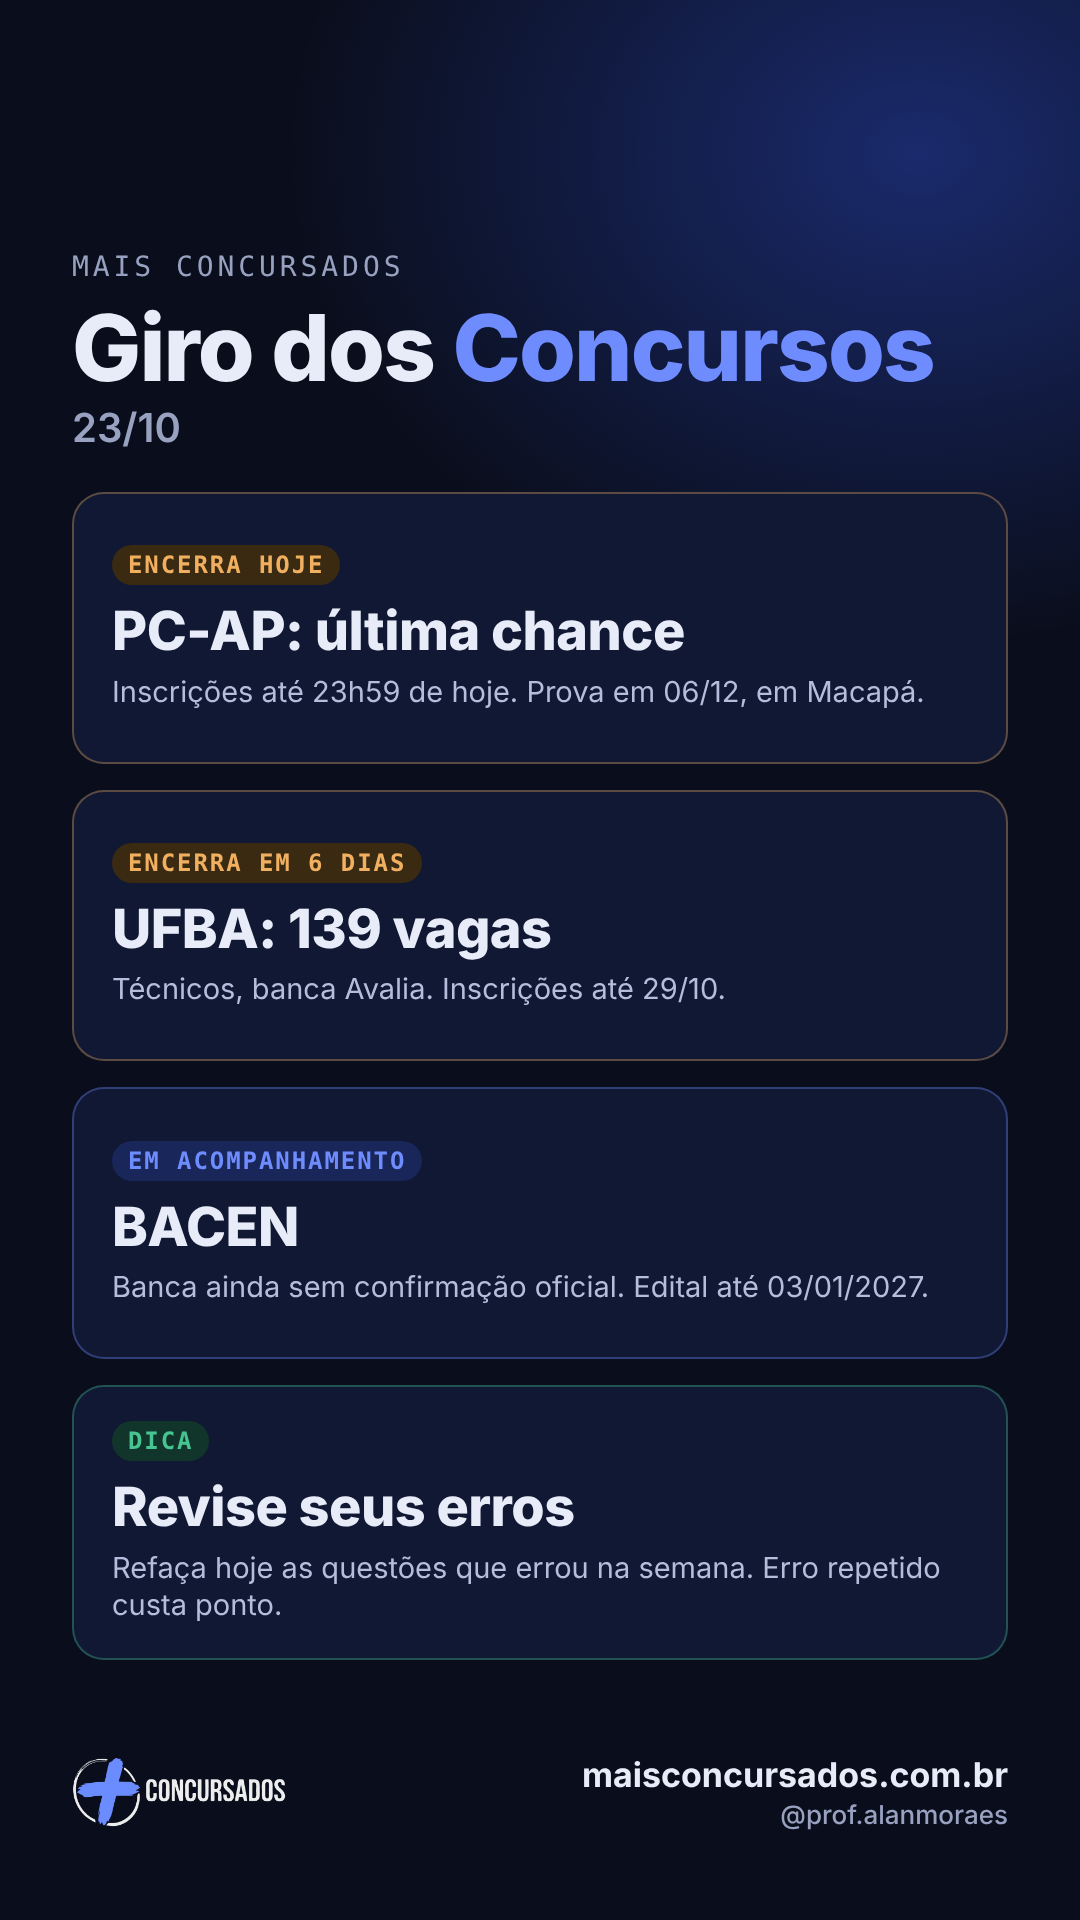
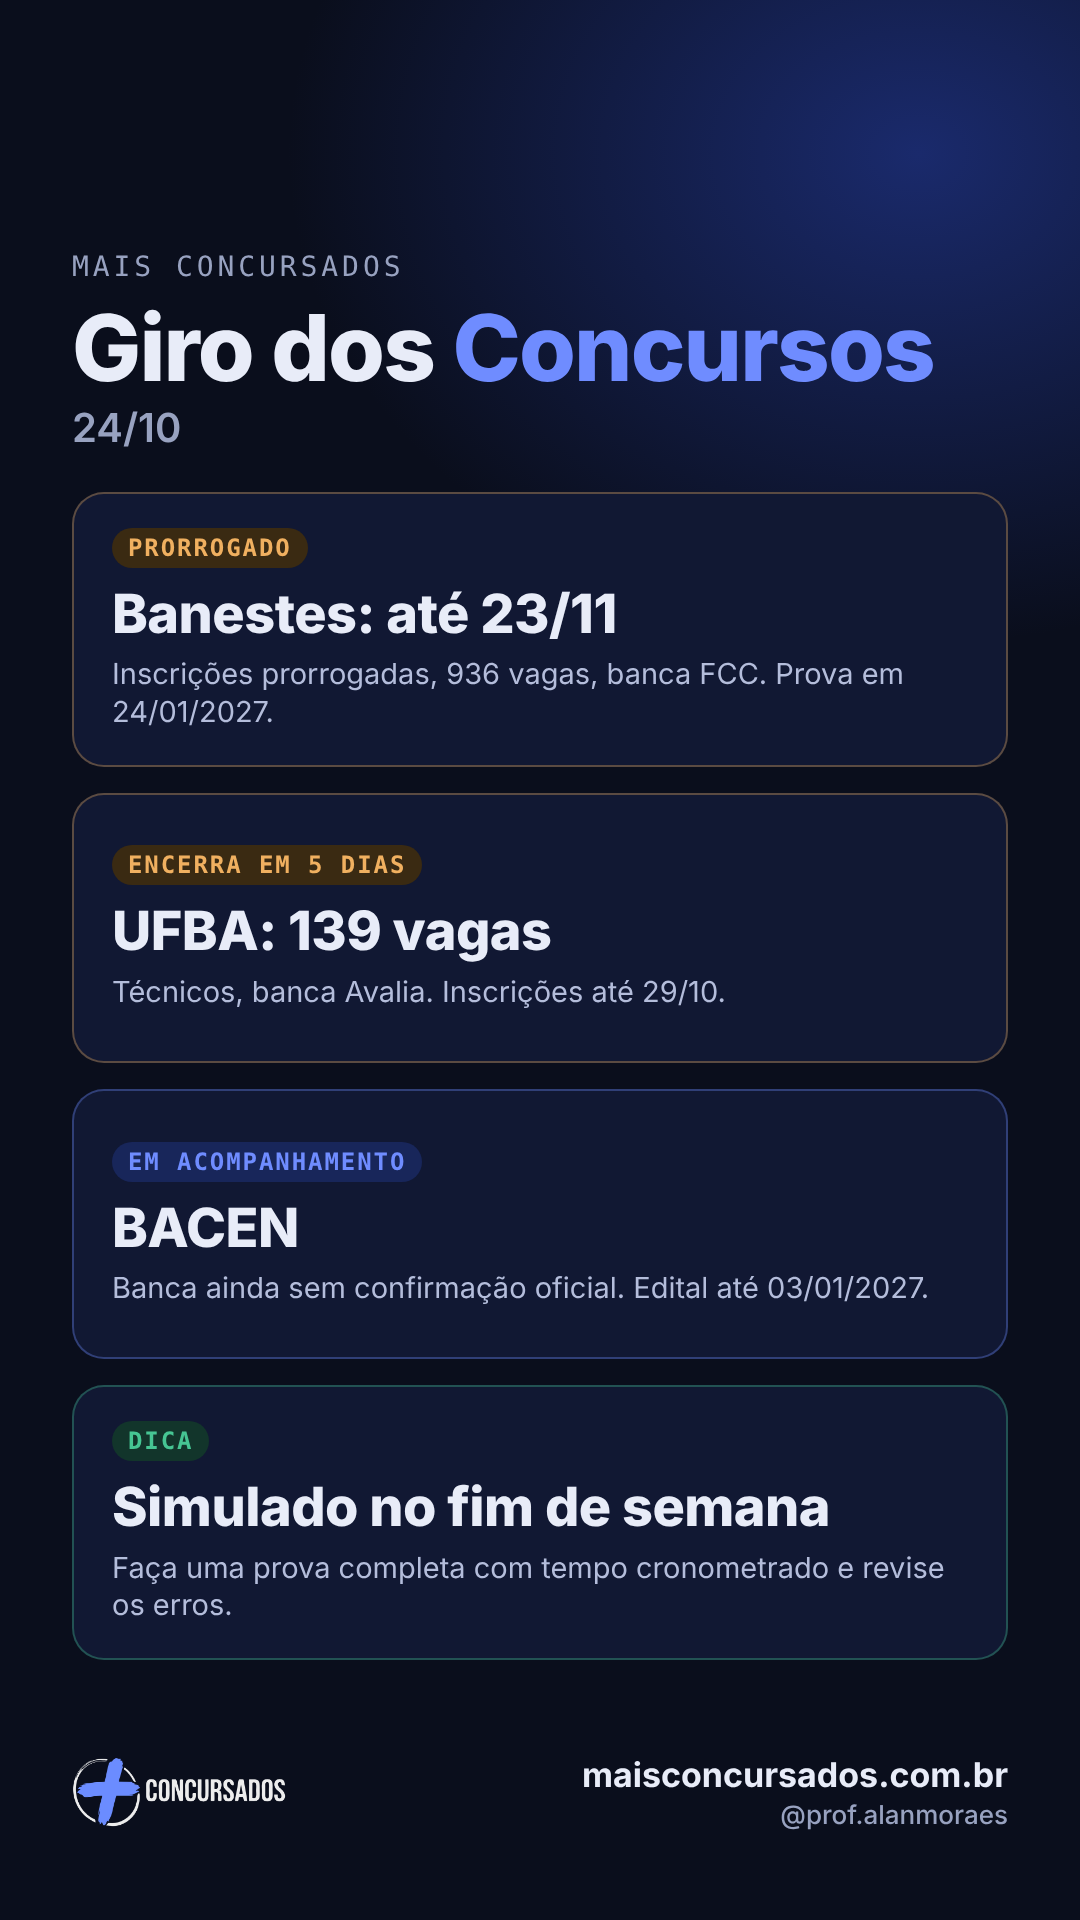
Giro dos Concursos 24/10: Banestes prorrogado até 23/11, PC-AP encerrado, arte de stories
Claude-Session: https://claude.ai/code/session_01Bciko3uwg3knW9SpmzcyY4

diff --git a/site/index.html b/site/index.html
@@ -72,7 +72,7 @@
 </main>
 <footer><div class="wrap"><div><h4>Mais Concursados</h4><p>Editais de concursos de todas as áreas, com destaque para os bancários, e estudo com método para quem quer a aprovação. Por Alan Moraes, bancário, professor e mentor para concursos.</p></div><div><h4>Navegue</h4><ul><li><a href="editais.html">Editais</a></li><li><a href="cursos.html">Cursos</a></li><li><a href="blog.html">Blog</a></li><li><a href="mentorias.html">Mentorias</a></li><li><a href="area-do-aluno.html">Área do aluno</a></li></ul></div><div><h4>Institucional</h4><ul><li><a href="sobre.html">Sobre o Alan</a></li><li><a href="contato.html">Contato</a></li><li><a href="privacidade.html">Política de privacidade</a></li></ul></div><p class="legal">© 2026 Mais Concursados · maisconcursados.com.br. As informações de editais vêm de portais de notícias e devem ser conferidas no edital oficial. O Mais Concursados não é banca organizadora nem órgão público.</p></div></footer>
 <script type="application/json" id="editais-data">{
- "atualizadoEm": "2026-10-23",
+ "atualizadoEm": "2026-10-24",
  "aviso": "Conferido em 13/10/2026 no texto dos editais e em pelo menos duas fontes independentes. Os sites das bancas bloquearam a leitura automática, por isso confirme sempre no edital oficial antes de se inscrever.",
  "editais": [
   {
@@ -109,13 +109,13 @@
    "org": "Polícia Civil do Amapá",
    "cargo": "Oficial Investigador e Delegado",
    "area": "policial",
-   "status": "aberto",
+   "status": "encerrado",
    "banca": "Cesgranrio",
    "vagas": 396,
    "vagasTexto": "396 em cadastro de reserva (294 Oficial Investigador, 102 Delegado)",
    "salario": "R$ 7.327,04 a R$ 31.439,06",
    "inscricoesAte": "2026-10-23",
-   "obs": "Edital publicado em 16/09/2026. Inscrições prorrogadas até 23/10/2026 (23h59), conforme nota da Cesgranrio relatada pela imprensa; taxa paga até 03/11. Prova objetiva prevista para 06/12/2026, em Macapá. Exige nível superior e CNH categoria B.",
+   "obs": "Edital publicado em 16/09/2026. Inscrições encerradas em 23/10/2026 (23h59), conforme nota da Cesgranrio relatada pela imprensa; taxa paga até 03/11. Prova objetiva prevista para 06/12/2026, em Macapá. Exige nível superior e CNH categoria B.",
    "validado": true,
    "fontes": [
     {
@@ -131,7 +131,7 @@
      "url": "https://blog.grancursosonline.com.br/concurso-policia-civil-ap-edital-publicado-2026/"
     }
    ],
-   "conferidoEm": "2026-10-23"
+   "conferidoEm": "2026-10-24"
   },
   {
    "id": "ufba-tecnicos",
@@ -282,7 +282,7 @@
      "url": "https://movimentoeconomico.com.br/concursos/2026/07/06/receita-federal-e-banco-central-tem-concursos-autorizados-com-316-vagas/"
     }
    ],
-   "conferidoEm": "2026-10-23"
+   "conferidoEm": "2026-10-24"
   },
   {
    "id": "receita-federal",
@@ -429,29 +429,29 @@
    "vagas": 936,
    "vagasTexto": "936 em cadastro de reserva (866 Técnico Bancário, 20 Técnico em Segurança do Trabalho, 50 Assistente Securitário)",
    "salario": "R$ 4.444,43 a R$ 5.618,71 (com gratificação de 25%), fora benefícios",
-   "inscricoesAte": "2026-11-17",
-   "obs": "Editais 01/2026 (Banestes) e 02/2026 (Banestes Seguros). Inscrições de 19/10 (10h) a 17/11/2026 (23h59) no site da FCC. Taxa R$ 67. Pedido de isenção de 19 a 21/10/2026. Boleto até 18/11. Prova objetiva em 24/01/2027, pela manhã, em Vitória, Cachoeiro de Itapemirim e São Mateus. Nível médio completo. Os portais divergem no valor do piso; confira no edital.",
+   "inscricoesAte": "2026-11-23",
+   "obs": "Editais 01/2026 (Banestes) e 02/2026 (Banestes Seguros). Inscrições prorrogadas (Retificação nº 03/2026): de 19/10 (10h) até 23/11/2026 (23h59) no site da FCC; boleto pode ser gerado até as 22h de 24/11. Taxa R$ 67. A retificação incluiu reserva de 10% das vagas para candidatos hipossuficientes. Prova objetiva em 24/01/2027, pela manhã, em Vitória, Cachoeiro de Itapemirim e São Mateus. Nível médio completo. Confira na retificação as datas do pedido de isenção. Os portais divergem no valor do piso; confira no edital.",
    "destaque": true,
    "validado": true,
    "fontes": [
     {
-     "nome": "Estratégia Concursos",
-     "url": "https://concursos.estrategia.com/portal/concurso-banestes/"
+     "nome": "Estratégia Concursos (inscrições prorrogadas)",
+     "url": "https://concursos.estrategia.com/portal/concurso-banestes-2026-inscricoes-prorrogadas/"
+    },
+    {
+     "nome": "Gran Cursos (inscrições prorrogadas)",
+     "url": "https://blog.grancursosonline.com.br/concurso-banestes-inscricoes-prorrogadas-2026/"
     },
     {
      "nome": "Direção Concursos",
      "url": "https://www.direcaoconcursos.com.br/noticias/edital-concurso-banestes-publicado"
     },
     {
-     "nome": "Gran Cursos",
-     "url": "https://blog.grancursosonline.com.br/concurso-banestes-edital-publicado-2026/"
-    },
-    {
      "nome": "Site da banca (FCC)",
      "url": "https://www.concursosfcc.com.br"
     }
    ],
-   "conferidoEm": "2026-10-21"
+   "conferidoEm": "2026-10-24"
   },
   {
    "id": "sefaz-sp",

diff --git a/site/editais.html b/site/editais.html
@@ -48,7 +48,7 @@
 </main>
 <footer><div class="wrap"><div><h4>Mais Concursados</h4><p>Editais de concursos de todas as áreas, com destaque para os bancários, e estudo com método para quem quer a aprovação. Por Alan Moraes, bancário, professor e mentor para concursos.</p></div><div><h4>Navegue</h4><ul><li><a href="editais.html">Editais</a></li><li><a href="cursos.html">Cursos</a></li><li><a href="blog.html">Blog</a></li><li><a href="mentorias.html">Mentorias</a></li><li><a href="area-do-aluno.html">Área do aluno</a></li></ul></div><div><h4>Institucional</h4><ul><li><a href="sobre.html">Sobre o Alan</a></li><li><a href="contato.html">Contato</a></li><li><a href="privacidade.html">Política de privacidade</a></li></ul></div><p class="legal">© 2026 Mais Concursados · maisconcursados.com.br. As informações de editais vêm de portais de notícias e devem ser conferidas no edital oficial. O Mais Concursados não é banca organizadora nem órgão público.</p></div></footer>
 <script type="application/json" id="editais-data">{
- "atualizadoEm": "2026-10-23",
+ "atualizadoEm": "2026-10-24",
  "aviso": "Conferido em 13/10/2026 no texto dos editais e em pelo menos duas fontes independentes. Os sites das bancas bloquearam a leitura automática, por isso confirme sempre no edital oficial antes de se inscrever.",
  "editais": [
   {
@@ -85,13 +85,13 @@
    "org": "Polícia Civil do Amapá",
    "cargo": "Oficial Investigador e Delegado",
    "area": "policial",
-   "status": "aberto",
+   "status": "encerrado",
    "banca": "Cesgranrio",
    "vagas": 396,
    "vagasTexto": "396 em cadastro de reserva (294 Oficial Investigador, 102 Delegado)",
    "salario": "R$ 7.327,04 a R$ 31.439,06",
    "inscricoesAte": "2026-10-23",
-   "obs": "Edital publicado em 16/09/2026. Inscrições prorrogadas até 23/10/2026 (23h59), conforme nota da Cesgranrio relatada pela imprensa; taxa paga até 03/11. Prova objetiva prevista para 06/12/2026, em Macapá. Exige nível superior e CNH categoria B.",
+   "obs": "Edital publicado em 16/09/2026. Inscrições encerradas em 23/10/2026 (23h59), conforme nota da Cesgranrio relatada pela imprensa; taxa paga até 03/11. Prova objetiva prevista para 06/12/2026, em Macapá. Exige nível superior e CNH categoria B.",
    "validado": true,
    "fontes": [
     {
@@ -107,7 +107,7 @@
      "url": "https://blog.grancursosonline.com.br/concurso-policia-civil-ap-edital-publicado-2026/"
     }
    ],
-   "conferidoEm": "2026-10-23"
+   "conferidoEm": "2026-10-24"
   },
   {
    "id": "ufba-tecnicos",
@@ -258,7 +258,7 @@
      "url": "https://movimentoeconomico.com.br/concursos/2026/07/06/receita-federal-e-banco-central-tem-concursos-autorizados-com-316-vagas/"
     }
    ],
-   "conferidoEm": "2026-10-23"
+   "conferidoEm": "2026-10-24"
   },
   {
    "id": "receita-federal",
@@ -405,29 +405,29 @@
    "vagas": 936,
    "vagasTexto": "936 em cadastro de reserva (866 Técnico Bancário, 20 Técnico em Segurança do Trabalho, 50 Assistente Securitário)",
    "salario": "R$ 4.444,43 a R$ 5.618,71 (com gratificação de 25%), fora benefícios",
-   "inscricoesAte": "2026-11-17",
-   "obs": "Editais 01/2026 (Banestes) e 02/2026 (Banestes Seguros). Inscrições de 19/10 (10h) a 17/11/2026 (23h59) no site da FCC. Taxa R$ 67. Pedido de isenção de 19 a 21/10/2026. Boleto até 18/11. Prova objetiva em 24/01/2027, pela manhã, em Vitória, Cachoeiro de Itapemirim e São Mateus. Nível médio completo. Os portais divergem no valor do piso; confira no edital.",
+   "inscricoesAte": "2026-11-23",
+   "obs": "Editais 01/2026 (Banestes) e 02/2026 (Banestes Seguros). Inscrições prorrogadas (Retificação nº 03/2026): de 19/10 (10h) até 23/11/2026 (23h59) no site da FCC; boleto pode ser gerado até as 22h de 24/11. Taxa R$ 67. A retificação incluiu reserva de 10% das vagas para candidatos hipossuficientes. Prova objetiva em 24/01/2027, pela manhã, em Vitória, Cachoeiro de Itapemirim e São Mateus. Nível médio completo. Confira na retificação as datas do pedido de isenção. Os portais divergem no valor do piso; confira no edital.",
    "destaque": true,
    "validado": true,
    "fontes": [
     {
-     "nome": "Estratégia Concursos",
-     "url": "https://concursos.estrategia.com/portal/concurso-banestes/"
+     "nome": "Estratégia Concursos (inscrições prorrogadas)",
+     "url": "https://concursos.estrategia.com/portal/concurso-banestes-2026-inscricoes-prorrogadas/"
+    },
+    {
+     "nome": "Gran Cursos (inscrições prorrogadas)",
+     "url": "https://blog.grancursosonline.com.br/concurso-banestes-inscricoes-prorrogadas-2026/"
     },
     {
      "nome": "Direção Concursos",
      "url": "https://www.direcaoconcursos.com.br/noticias/edital-concurso-banestes-publicado"
     },
     {
-     "nome": "Gran Cursos",
-     "url": "https://blog.grancursosonline.com.br/concurso-banestes-edital-publicado-2026/"
-    },
-    {
      "nome": "Site da banca (FCC)",
      "url": "https://www.concursosfcc.com.br"
     }
    ],
-   "conferidoEm": "2026-10-21"
+   "conferidoEm": "2026-10-24"
   },
   {
    "id": "sefaz-sp",
